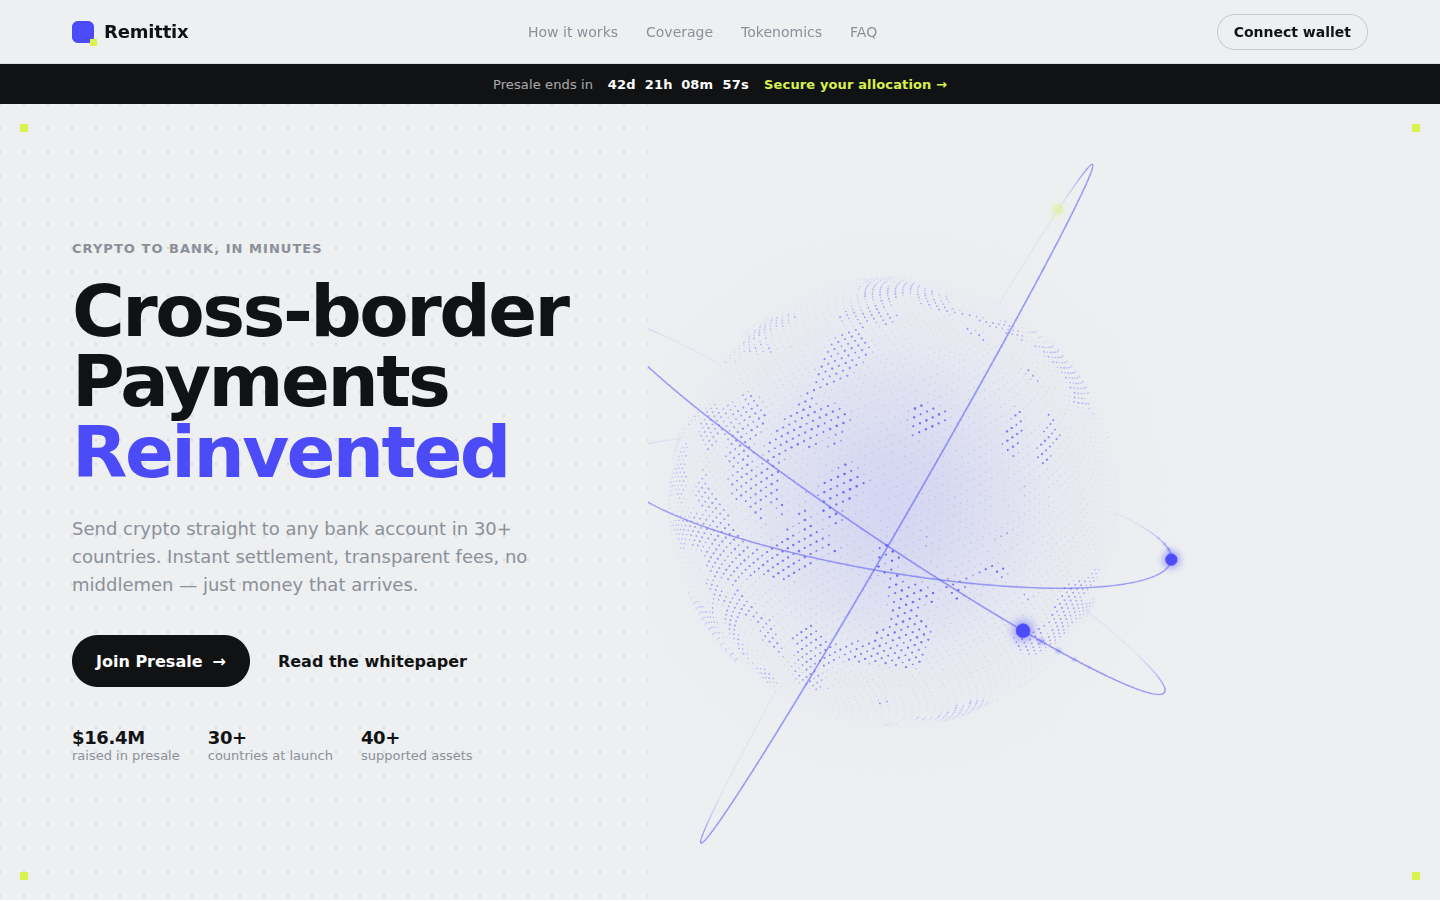
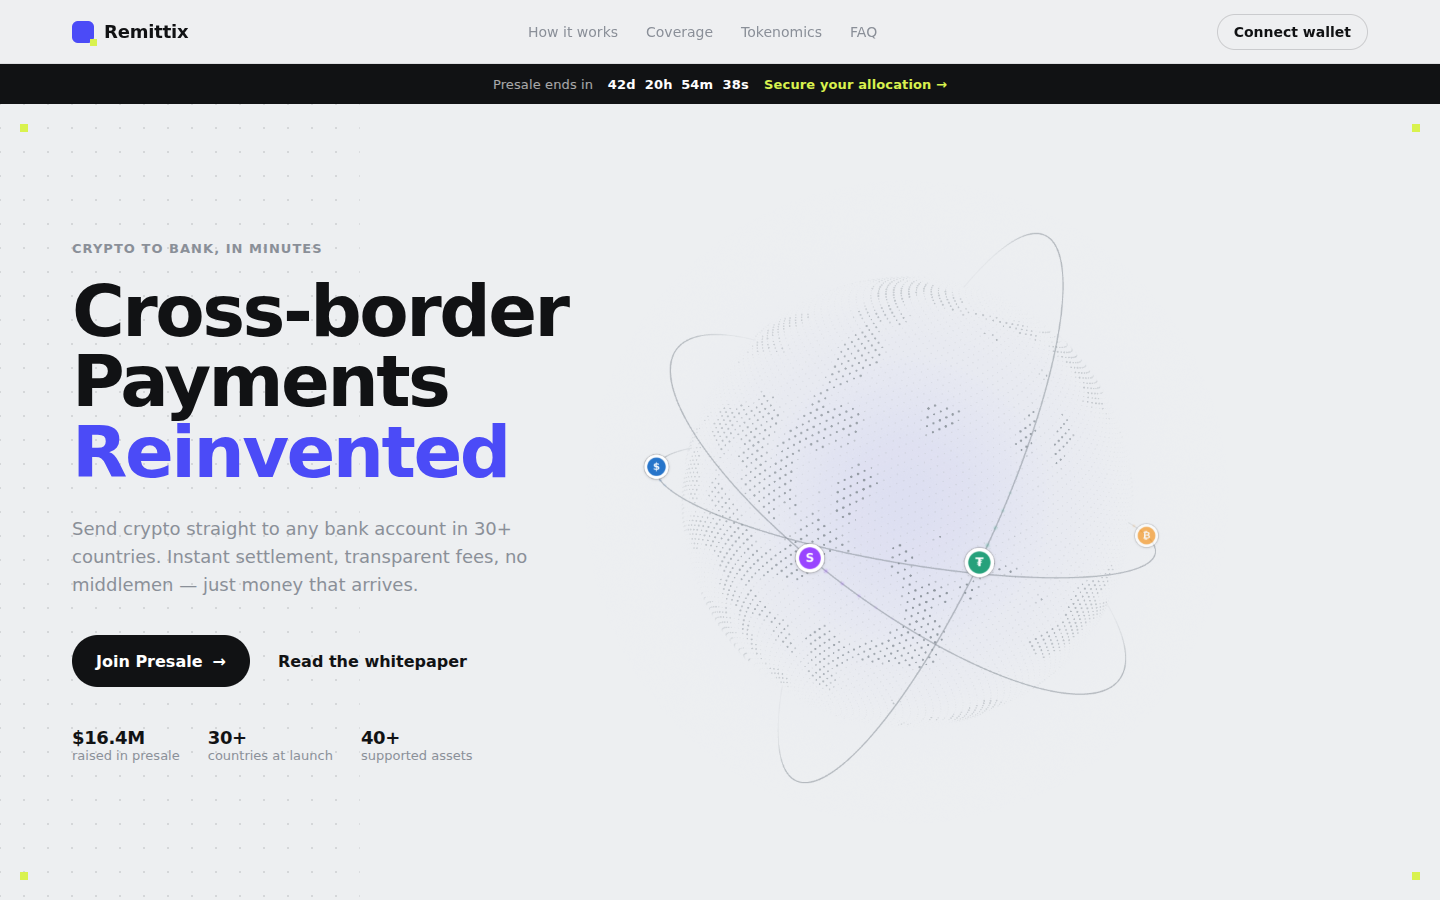
Rework planet: grey dots, tight orbits, crypto badges, full-width canvas
Canvas now spans the whole hero so orbits are never clipped, ring radii
drop to 1.12–1.32× the sphere, planet dots use #7C858D, and the orbit
nodes become generated crypto badges (BTC, ETH, USDT, USDC, SOL, XRP)
with coloured trails. Badges accept a logo image path in config.

Claude-Session: https://claude.ai/code/session_01HEdBujhmZjJYweLG8veQcL

diff --git a/src/components/HeroPlanet/PlanetScene.ts b/src/components/HeroPlanet/PlanetScene.ts
@@ -3,6 +3,7 @@ import { gsap } from 'gsap';
 import { ScrollTrigger } from 'gsap/ScrollTrigger';
 import { PLANET_CONFIG as C } from './config';
 import { generateLandMask, sampleMask, type LandMask } from './landMask';
+import { makeBadgeTexture } from './badges';
 import dotsVert from './shaders/dots.vert.glsl?raw';
 import dotsFrag from './shaders/dots.frag.glsl?raw';
 import billboardVert from './shaders/billboard.vert.glsl?raw';
@@ -27,16 +28,19 @@ export interface PlanetSceneOptions {
   scroll?: boolean;
 }
 
+interface Badge {
+  sprite: THREE.Sprite;
+  phase: number;              // 0..1 start offset along the ring
+  trail: THREE.Mesh<THREE.PlaneGeometry, THREE.ShaderMaterial>[];
+}
+
 interface Ring {
   pivot: THREE.Group;
   mesh: THREE.Mesh<THREE.TubeGeometry, THREE.ShaderMaterial>;
   curve: THREE.Curve<THREE.Vector3>;
   indexCount: number;
   indexStep: number;
-  node: THREE.Group;
-  core: THREE.Mesh<THREE.SphereGeometry, THREE.MeshBasicMaterial>;
-  halo: THREE.Mesh<THREE.PlaneGeometry, THREE.ShaderMaterial>;
-  trail: THREE.Mesh<THREE.PlaneGeometry, THREE.ShaderMaterial>[];
+  badges: Badge[];
 }
 
 const DEG = Math.PI / 180;
@@ -246,7 +250,7 @@ export class PlanetScene {
         uProgress: { value: 0 },
         uLighten: { value: C.lightenAmount },
         uLightDir: { value: light },
-        uColorLand: { value: new THREE.Color(C.colorAccent) },
+        uColorLand: { value: new THREE.Color(C.colorPlanet) },
         uColorOcean: { value: new THREE.Color(C.colorOcean) },
       },
       transparent: true,
@@ -291,48 +295,44 @@ export class PlanetScene {
       pivot.rotation.set(C.ringInclinationsDeg[i] * DEG, C.ringAzimuthsDeg[i] * DEG, C.ringRollsDeg[i] * DEG, 'ZYX');
       pivot.add(mesh);
 
-      // --- node: core + halo + short trail ---
-      const colorHex = C.nodeColors[i] === 'lime' ? C.colorLime : C.colorAccent;
-      const node = new THREE.Group();
-      const core = new THREE.Mesh(
-        new THREE.SphereGeometry(C.nodeRadius, 16, 12),
-        new THREE.MeshBasicMaterial({ color: colorHex, transparent: true, opacity: 0 }),
-      );
-      core.renderOrder = 4;
-      const makeHalo = (size: number, falloff: number) => {
-        const m = new THREE.Mesh(
-          haloGeo,
-          new THREE.ShaderMaterial({
-            vertexShader: billboardVert,
-            fragmentShader: glowFrag,
-            uniforms: {
-              uSize: { value: size },
-              uColor: { value: new THREE.Color(colorHex) },
-              uOpacity: { value: 0 },
-              uInner: { value: 0.0 },
-              uFalloff: { value: falloff },
-            },
-            transparent: true,
-            depthWrite: false,
-          }),
+      // --- crypto badges travelling this ring, evenly phased ---
+      const coins = C.coins.filter((_, k) => k % C.ringRadii.length === i);
+      const badges: Badge[] = coins.map((coin, k) => {
+        const texture = makeBadgeTexture(coin, C.badgeTexturePx);
+        const sprite = new THREE.Sprite(
+          new THREE.SpriteMaterial({ map: texture, transparent: true, opacity: 0, depthWrite: false }),
         );
-        m.renderOrder = 3;
-        m.frustumCulled = false;
-        return m;
-      };
-      const halo = makeHalo(C.nodeRadius * C.nodeHaloScale, 2.2);
-      node.add(core, halo);
-      pivot.add(node);
-
-      const trail: Ring['trail'] = [];
-      for (let k = 0; k < C.nodeTrailLength; k++) {
-        const bead = makeHalo(C.nodeRadius * 2.4, 1.6);
-        pivot.add(bead);
-        trail.push(bead);
-      }
+        sprite.scale.setScalar(0.0001);
+        sprite.renderOrder = 4;
+        pivot.add(sprite);
+        const trail: Badge['trail'] = [];
+        for (let t = 0; t < C.nodeTrailLength; t++) {
+          const bead = new THREE.Mesh(
+            haloGeo,
+            new THREE.ShaderMaterial({
+              vertexShader: billboardVert,
+              fragmentShader: glowFrag,
+              uniforms: {
+                uSize: { value: C.nodeTrailSize },
+                uColor: { value: new THREE.Color(coin.color) },
+                uOpacity: { value: 0 },
+                uInner: { value: 0.0 },
+                uFalloff: { value: 1.6 },
+              },
+              transparent: true,
+              depthWrite: false,
+            }),
+          );
+          bead.renderOrder = 3;
+          bead.frustumCulled = false;
+          pivot.add(bead);
+          trail.push(bead);
+        }
+        return { sprite, phase: (k / Math.max(1, coins.length)) % 1, trail };
+      });
 
       this.root.add(pivot);
-      this.rings.push({ pivot, mesh, curve, indexCount, indexStep: radialSegments * 6, node, core, halo, trail });
+      this.rings.push({ pivot, mesh, curve, indexCount, indexStep: radialSegments * 6, badges });
     }
   }
 
@@ -552,30 +552,30 @@ export class PlanetScene {
       ring.mesh.material.uniforms.uCenterViewZ.value = centerViewZ;
 
       const period = C.nodePeriodsSec[i];
-      const t = (C.nodeStartOffsets[i] + elapsed / period) % 1;
-      ring.curve.getPointAt(t, ring.node.position);
+      for (const badge of ring.badges) {
+        const t = (badge.phase + elapsed / period) % 1;
+        ring.curve.getPointAt(t, badge.sprite.position);
 
-      // Fade the node as it passes behind the sphere (the occluder hides it inside the disc).
-      ring.node.updateMatrixWorld();
-      const dz =
-        this.tmpV3.setFromMatrixPosition(ring.core.matrixWorld).applyMatrix4(this.camera.matrixWorldInverse).z -
-        centerViewZ;
-      const behind = smoothstep(0.15, -0.55, dz);
-      const vis = appear * (1 - behind * (1 - C.nodeBackFade));
-      ring.core.material.opacity = vis;
-      ring.core.scale.setScalar(Math.max(0.0001, appear));
-      ring.halo.material.uniforms.uOpacity.value = C.nodeHaloOpacity * vis;
-      ring.halo.material.uniforms.uSize.value = C.nodeRadius * C.nodeHaloScale * appear;
+        // Fade the badge as it passes behind the sphere (the occluder hides it inside the disc).
+        badge.sprite.updateMatrixWorld();
+        const dz =
+          this.tmpV3.setFromMatrixPosition(badge.sprite.matrixWorld).applyMatrix4(this.camera.matrixWorldInverse).z -
+          centerViewZ;
+        const behind = smoothstep(0.15, -0.55, dz);
+        const vis = appear * (1 - behind * (1 - C.nodeBackFade));
+        badge.sprite.material.opacity = vis;
+        badge.sprite.scale.setScalar(Math.max(0.0001, C.badgeSize * appear));
 
-      // Trail: a few fading beads behind the node along the ring.
-      const len = ring.trail.length;
-      for (let k = 0; k < len; k++) {
-        const bead = ring.trail[k];
-        const back = ((k + 1) / len) * (C.nodeTrailSpan / period);
-        ring.curve.getPointAt((((t - back) % 1) + 1) % 1, bead.position);
-        const fade = 1 - (k + 1) / (len + 1);
-        bead.material.uniforms.uOpacity.value = C.nodeTrailOpacity * fade * vis;
-        bead.material.uniforms.uSize.value = C.nodeRadius * 2.4 * fade * appear;
+        // Trail: a few fading beads behind the badge along the ring.
+        const len = badge.trail.length;
+        for (let k = 0; k < len; k++) {
+          const bead = badge.trail[k];
+          const back = ((k + 1) / len) * (C.nodeTrailSpan / period);
+          ring.curve.getPointAt((((t - back) % 1) + 1) % 1, bead.position);
+          const fade = 1 - (k + 1) / (len + 1);
+          bead.material.uniforms.uOpacity.value = C.nodeTrailOpacity * fade * vis;
+          bead.material.uniforms.uSize.value = C.nodeTrailSize * (0.5 + 0.5 * fade) * appear;
+        }
       }
     });
   }
@@ -637,6 +637,7 @@ export class PlanetScene {
         for (const u of Object.values((m as THREE.ShaderMaterial).uniforms ?? {})) {
           if (u.value instanceof THREE.Texture) u.value.dispose();
         }
+        (m as THREE.SpriteMaterial).map?.dispose();
         m.dispose();
       }
     });

diff --git a/src/components/HeroPlanet/config.ts b/src/components/HeroPlanet/config.ts
@@ -6,10 +6,11 @@
  */
 export const PLANET_CONFIG = {
   // ---------- Colours (brand tokens; keep in sync with src/styles/tokens.css) ----------
-  colorAccent: '#4B4BF7',   // land dots, two orbit nodes, rings, glow
-  colorLime: '#D9F24E',     // exactly one orbit node
-  colorOcean: '#9A9EC4',    // desaturated indigo-grey for ocean dots
-  colorRing: '#4B4BF7',     // orbit ring stroke
+  colorAccent: '#4B4BF7',   // brand indigo — used for the glow tint only
+  colorLime: '#D9F24E',     // unused by the planet now (kept for tuning)
+  colorPlanet: '#7C858D',   // land dots
+  colorOcean: '#B9BEC4',    // lighter grey for ocean dots
+  colorRing: '#7C858D',     // orbit ring stroke
   lightenAmount: 0.16,      // 0..1 — how much dots lighten toward the top-left light
   lightDirection: [-0.55, 0.65, 0.55] as [number, number, number], // view-space, normalised at runtime
 
@@ -32,7 +33,7 @@ export const PLANET_CONFIG = {
   staticRotationDeg: 38,    // pose used for reduced-motion / fallback capture
 
   // ---------- Layout (fractions of the hero box) ----------
-  planetCenterX: 0.62,
+  planetCenterX: 0.63,
   planetCenterY: 0.5,
   sphereDiameterFraction: 0.56, // of hero height
   // Tablet (768–1279px): pull the planet right and shrink it so it clears the copy
@@ -46,32 +47,40 @@ export const PLANET_CONFIG = {
 
   // ---------- Glow ----------
   glowScale: 3.6,           // plane width in sphere radii
-  glowOpacity: 0.15,        // peak alpha (0.12–0.18)
+  glowOpacity: 0.10,        // peak alpha — kept faint under the grey planet
   glowInner: 0.0,           // 0..1 — radius where the falloff starts
   glowFalloff: 2.6,         // higher = tighter bloom
   glowAdditive: false,      // true = additive blending (reads near-white on a light bg)
 
   // ---------- Orbit rings ----------
-  ringRadii: [1.25, 1.45, 1.7],           // × sphere radius
+  ringRadii: [1.12, 1.22, 1.32],          // × sphere radius — tight orbits that hug the planet
   ringInclinationsDeg: [12, 68, 105],     // tilt of each ring plane (rotation about X)
-  ringAzimuthsDeg: [8, 84, -88],          // rotation about Y — near ±90° makes a steep ring edge-on/thin
-  ringRollsDeg: [-8, 34, -45],            // in-screen rotation (about Z) so the ellipses sit diagonally
+  ringAzimuthsDeg: [8, 70, -75],          // rotation about Y — near ±90° makes a steep ring edge-on/thin
+  ringRollsDeg: [-8, 30, -40],            // in-screen rotation (about Z) so the ellipses sit diagonally
   ringTubeRadius: 0.0028,                 // world units — ~1.4px at the reference radius
-  ringOpacity: 0.55,
+  ringOpacity: 0.5,
   ringBackFade: 0.14,                     // opacity multiplier on the half behind the sphere
   ringSegments: 320,
 
-  // ---------- Orbit nodes ----------
-  nodePeriodsSec: [14, 18, 22],           // one loop per ring; all different so they never sync
-  nodeStartOffsets: [0.05, 0.42, 0.7],    // 0..1 phase along the ring
-  nodeColors: ['accent', 'accent', 'lime'] as const,
-  nodeRadius: 0.026,                      // core sphere, world units
-  nodeHaloScale: 7,                       // halo diameter in node radii
-  nodeHaloOpacity: 0.55,
-  nodeBackFade: 0.25,
-  nodeTrailLength: 6,                     // beads behind each node (0 = none)
-  nodeTrailSpan: 1.1,                     // seconds of travel the trail covers
-  nodeTrailOpacity: 0.45,
+  // ---------- Orbit nodes: crypto badges in transit ----------
+  nodePeriodsSec: [16, 20, 24],           // one loop per ring; all different so they never sync
+  // Badges are assigned to rings round-robin (0,1,2,0,1,2…) with evenly spaced phases per ring.
+  // Add `logo: '/coins/btc.svg'` to use an image instead of the generated glyph badge.
+  coins: [
+    { symbol: 'BTC', color: '#F7931A', glyph: '₿' },
+    { symbol: 'ETH', color: '#627EEA', glyph: 'Ξ' },
+    { symbol: 'USDT', color: '#26A17B', glyph: '₮' },
+    { symbol: 'USDC', color: '#2775CA', glyph: '$' },
+    { symbol: 'SOL', color: '#9945FF', glyph: 'S' },
+    { symbol: 'XRP', color: '#23292F', glyph: 'X' },
+  ] as { symbol: string; color: string; glyph: string; logo?: string }[],
+  badgeSize: 0.13,                        // badge diameter, world units (sphere radius = 1)
+  badgeTexturePx: 192,                    // generated badge texture size
+  nodeBackFade: 0.2,                      // opacity multiplier when a badge passes behind the planet
+  nodeTrailLength: 5,                     // beads behind each badge (0 = none)
+  nodeTrailSpan: 1.0,                     // seconds of travel the trail covers
+  nodeTrailOpacity: 0.35,
+  nodeTrailSize: 0.035,                   // bead diameter, world units
 
   // ---------- Motion ----------
   entranceTotalSec: 1.8,

diff --git a/src/components/HeroPlanet/badges.ts b/src/components/HeroPlanet/badges.ts
@@ -1,0 +1,73 @@
+import * as THREE from 'three';
+
+export interface CoinSpec {
+  symbol: string;
+  color: string;
+  glyph: string;
+  logo?: string;
+}
+
+/**
+ * Builds a camera-facing badge texture: white disc, thin grey rim, coloured inner disc with the
+ * coin glyph. If `logo` is set the image is drawn into the inner disc instead (async).
+ */
+export function makeBadgeTexture(coin: CoinSpec, px: number): THREE.CanvasTexture {
+  const canvas = document.createElement('canvas');
+  canvas.width = px;
+  canvas.height = px;
+  const ctx = canvas.getContext('2d')!;
+  const c = px / 2;
+
+  const draw = (image?: HTMLImageElement) => {
+    ctx.clearRect(0, 0, px, px);
+    // soft shadow so the badge lifts off the light background
+    ctx.save();
+    ctx.shadowColor = 'rgba(17,18,20,0.18)';
+    ctx.shadowBlur = px * 0.08;
+    ctx.shadowOffsetY = px * 0.02;
+    ctx.fillStyle = '#ffffff';
+    ctx.beginPath();
+    ctx.arc(c, c, px * 0.42, 0, Math.PI * 2);
+    ctx.fill();
+    ctx.restore();
+    ctx.strokeStyle = 'rgba(17,18,20,0.10)';
+    ctx.lineWidth = Math.max(1, px * 0.01);
+    ctx.beginPath();
+    ctx.arc(c, c, px * 0.42, 0, Math.PI * 2);
+    ctx.stroke();
+
+    const r = px * 0.31;
+    if (image) {
+      ctx.save();
+      ctx.beginPath();
+      ctx.arc(c, c, r, 0, Math.PI * 2);
+      ctx.clip();
+      ctx.drawImage(image, c - r, c - r, r * 2, r * 2);
+      ctx.restore();
+    } else {
+      ctx.fillStyle = coin.color;
+      ctx.beginPath();
+      ctx.arc(c, c, r, 0, Math.PI * 2);
+      ctx.fill();
+      ctx.fillStyle = '#ffffff';
+      ctx.font = `700 ${Math.round(px * 0.34)}px Inter, ui-sans-serif, system-ui, -apple-system, "Segoe UI", Roboto, Arial, sans-serif`;
+      ctx.textAlign = 'center';
+      ctx.textBaseline = 'middle';
+      ctx.fillText(coin.glyph, c, c + px * 0.015);
+    }
+  };
+
+  draw();
+  const texture = new THREE.CanvasTexture(canvas);
+  texture.anisotropy = 4;
+
+  if (coin.logo) {
+    const img = new Image();
+    img.onload = () => {
+      draw(img);
+      texture.needsUpdate = true;
+    };
+    img.src = coin.logo;
+  }
+  return texture;
+}

diff --git a/src/components/HeroPlanet/HeroPlanet.css b/src/components/HeroPlanet/HeroPlanet.css
@@ -1,7 +1,9 @@
-/* Decorative WebGL layer for the hero. Never intercepts pointer events. */
+/* Decorative WebGL layer for the hero. Never intercepts pointer events.
+   The canvas spans the whole hero so orbits are never clipped; the planet itself is placed
+   at planetCenterX (63% of the hero width) by PlanetScene.layout(). */
 .heroPlanet {
   position: absolute;
-  inset: 0 0 0 45%;
+  inset: 0;
   pointer-events: none;
   z-index: 0;
   overflow: hidden;
@@ -16,7 +18,7 @@
 .heroPlanet img {
   position: absolute;
   top: 0;
-  left: 31%;
+  left: 63%;
   height: 100%;
   width: auto;
   max-width: none;
@@ -24,8 +26,7 @@
 }
 
 @media (min-width: 768px) and (max-width: 1279px) {
-  .heroPlanet { inset: 0 0 0 42%; }
-  .heroPlanet img { left: 41%; height: 90%; top: 5%; }
+  .heroPlanet img { left: 66%; height: 90%; top: 5%; }
 }
 
 @media (max-width: 767px) {
